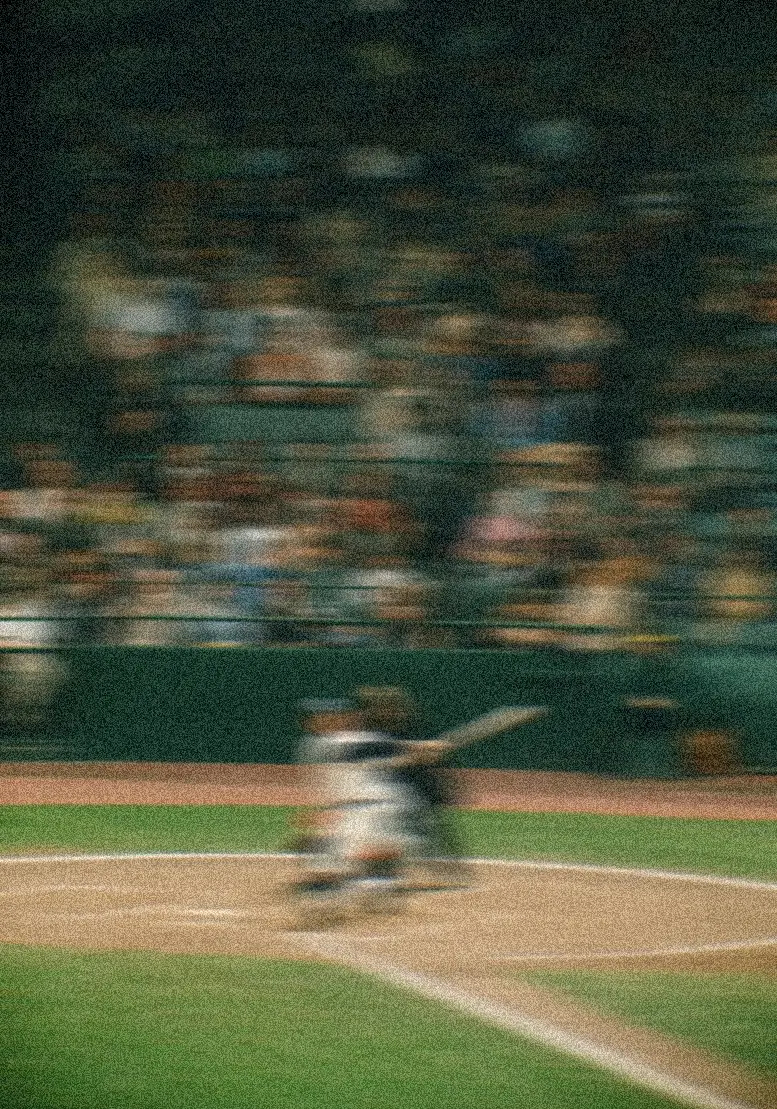
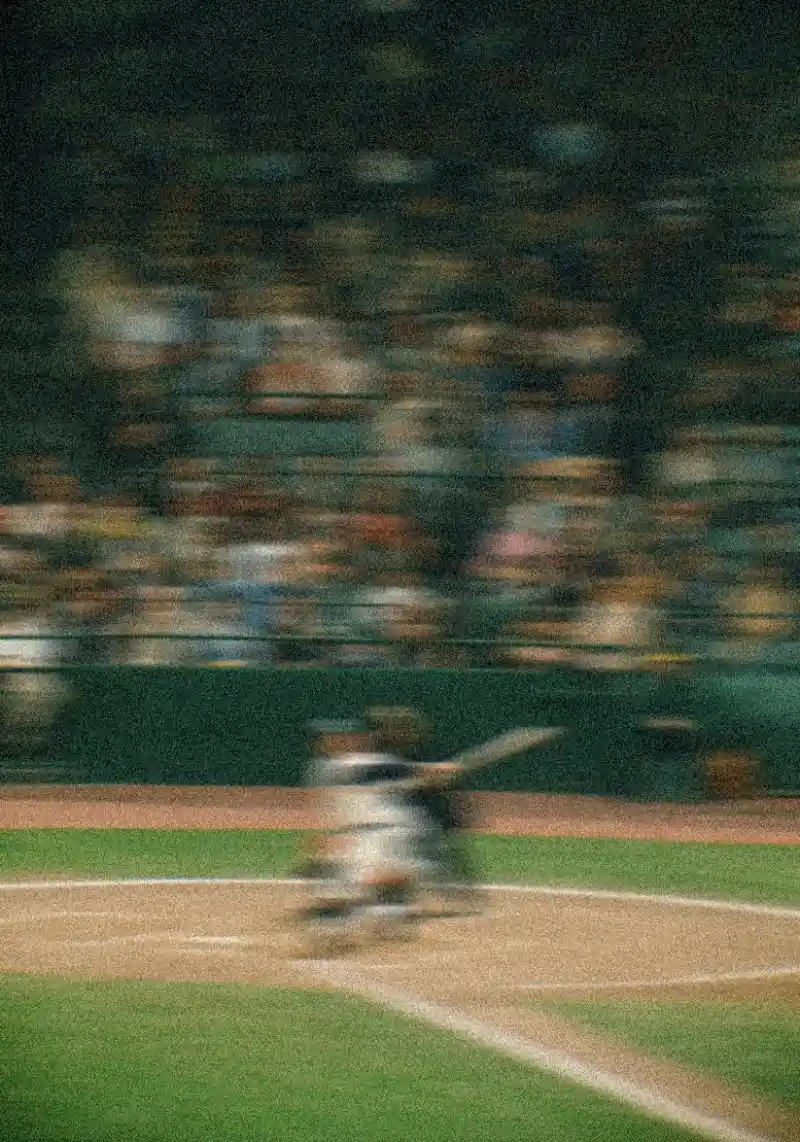
perf: Further compress turf-bg.webp for faster LCP
- Source image: 245KB → 90KB (q=30, 800px width)
- Next.js quality: 75 → 40 (background behind blur)
- sizes: 100vw → responsive (50vw on desktop)

Background is heavily blurred/overlaid, quality loss not visible.

diff --git a/src/components/TrendingSectionServer.tsx b/src/components/TrendingSectionServer.tsx
@@ -99,9 +99,9 @@ export default function TrendingSectionServer({ maxMatches = 6, locale = 'en' }:
             alt=""
             fill
             loading="lazy"
-            quality={50}
+            quality={40}
             className="object-cover"
-            sizes="100vw"
+            sizes="(max-width: 768px) 100vw, 50vw"
           />
         </div>
         {/* Dark vignette overlay */}

diff --git a/src/components/VideoBackground.tsx b/src/components/VideoBackground.tsx
@@ -48,8 +48,8 @@ export default function VideoBackground({
           fill
           priority={isLCP}
           fetchPriority={isLCP ? "high" : "auto"}
-          quality={75}
-          sizes="100vw"
+          quality={40}
+          sizes="(max-width: 768px) 100vw, 50vw"
           className="object-cover"
           placeholder="empty"
         />
